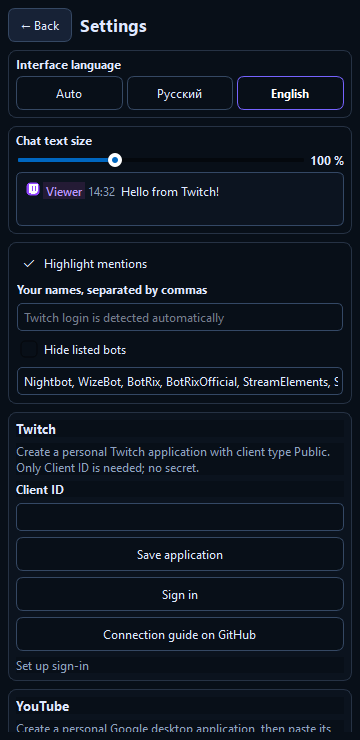
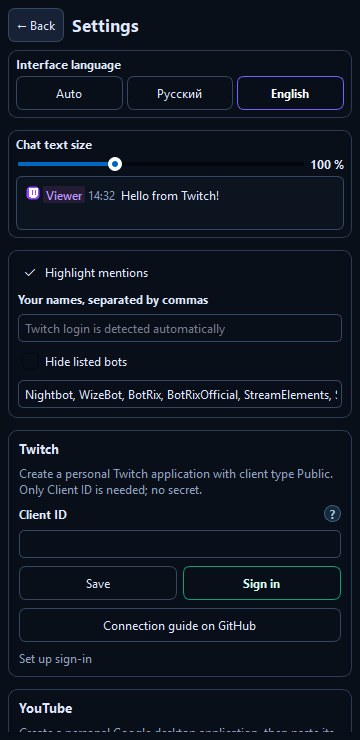
Show refreshed Stream Chat 0.4.1 account settings

diff --git a/docs/README_EN.md b/docs/README_EN.md
@@ -4,7 +4,7 @@
 
 ![Stream Chat English interface](screenshots/chat-en.png)
 
-*Version 0.4.0 UI preview from an isolated test host; messages and connections are sample data.* [Russian interface](screenshots/chat-ru.png) · [Narrow dock](screenshots/chat-narrow-ru.png) · [Settings](screenshots/settings-en.png).
+*Version 0.4.1 UI preview from an isolated test host; messages and connections are sample data.* [Russian interface](screenshots/chat-ru.png) · [Narrow dock](screenshots/chat-narrow-ru.png) · [Settings](screenshots/settings-en.png).
 
 ## Features
 
@@ -13,13 +13,13 @@
 - Send text to selected Twitch, YouTube and Kick chats. Kick is optional and disabled by default.
 - YouTube chat discovery starts after the broadcast begins. Viewer counts appear during a stream when the service provides them.
 - If the YouTube streaming connection stops delivering data, the plugin switches to the official chat polling API at a limited rate.
-- In version 0.4.0, register a personal application for each service, enter its keys in Settings and sign in through the browser. Windows encrypts the saved keys and sign-in data. Each account section links to our [registration guide](REGISTER_APPS_RU.md).
+- In version 0.4.1, register a personal application for each service, enter its keys in Settings and sign in through the browser. Windows encrypts the saved keys and sign-in data. Each account section links to our [registration guide](REGISTER_APPS_RU.md) and explains its fields on hover.
 - Settings include **Auto / Russian / English** and text size with a live preview. Message history is cleared when OBS closes.
 - Highlight your names, optionally hide named bots, and see when the last chat message arrived.
 
 ## How the plugins work together
 
-Version 0.4.0 uses personal developer applications for Twitch, YouTube and Kick. Each account section has a setup guide link. Enable Kick to show its card and green K marker. Kick reading only needs a channel name; sending requires sign-in. Kick reading, sign-in, token refresh and sending were verified with a real account.
+Version 0.4.1 uses personal developer applications for Twitch, YouTube and Kick. Each account section has a setup guide link. Enable Kick to show its card and green K marker. Kick reading only needs a channel name; sending requires sign-in. Kick reading, sign-in, token refresh and sending were verified with a real account.
 
 Stream Chat works on its own. Stream Stats can read Chat's local CPU, tracked data and traffic counters when installed. Stream Notify may use Chat's saved Twitch and YouTube sign-ins and its Kick channel name to check live status; it does not change Chat's account data.
 

diff --git a/README.md b/README.md
@@ -13,6 +13,7 @@
 - Читайте Twitch, YouTube и Kick, не выходя из OBS.
 - Выбирайте язык и размер **сообщений чата** в настройках.
 - Подключайте личные приложения Twitch, YouTube и Kick в настройках и входите через браузер. Данные входа остаются зашифрованными на вашем компьютере.
+- У полей подключения есть значки «?» с коротким объяснением. Основные действия собраны в компактные пары кнопок.
 - Stream Stats показывает измеренный CPU, учтённые данные и сетевой трафик Chat за время работы OBS.
 - Упоминания ваших имён можно выделять цветом. Имя Twitch определяется после входа, остальные имена можно вписать в настройках.
 - Ботов можно скрывать по редактируемому списку точных имён. Фильтр выключен по умолчанию и не удаляет сообщения из истории текущего запуска.
